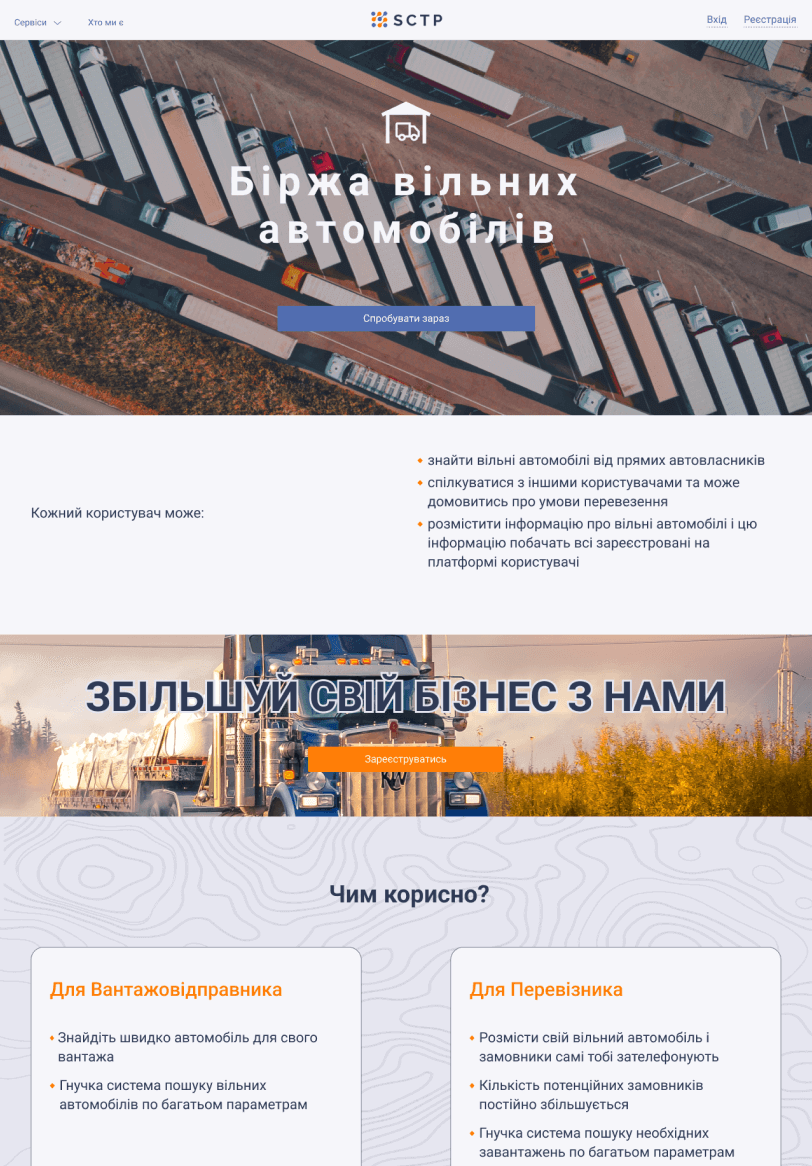
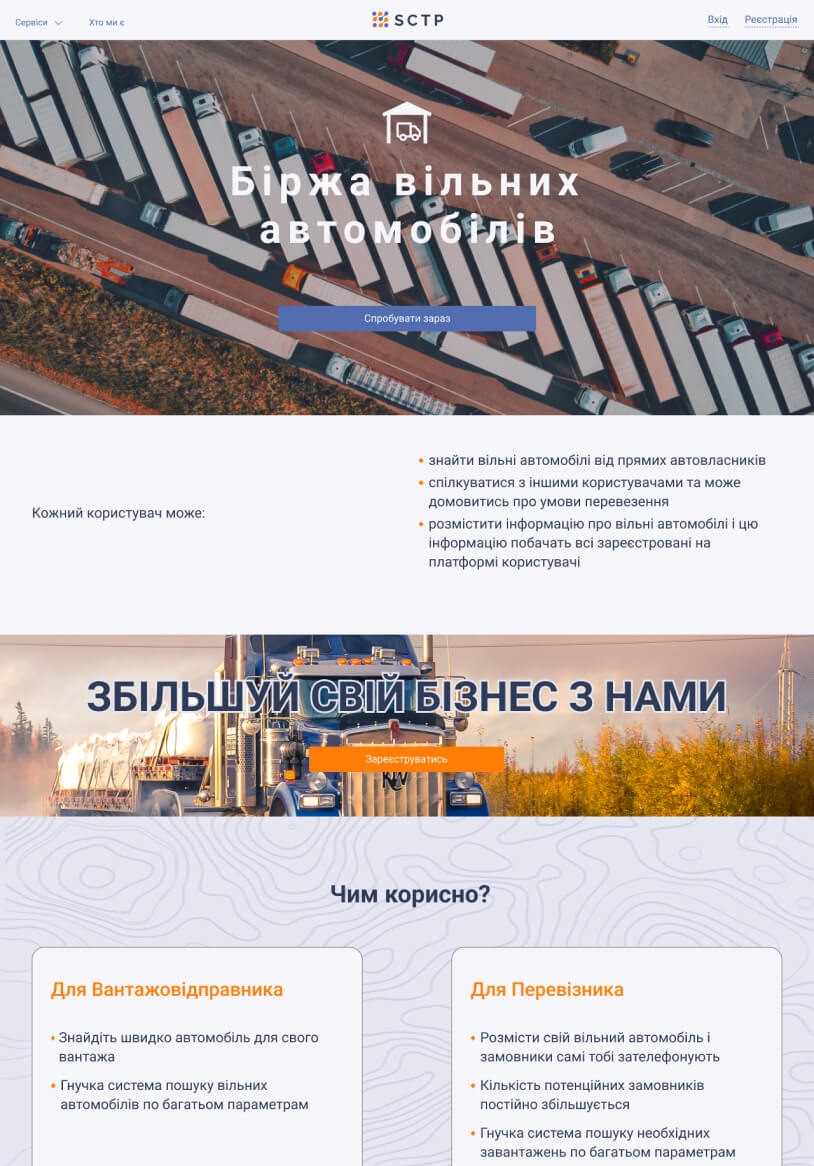
fix: imgs

diff --git a/css/_base.scss b/css/_base.scss
@@ -92,7 +92,7 @@ body {
 			filter: opacity(1);
 			z-index: 2;
 			img {
-				transform: scale(1.14);
+				transform: scale(1.16954);
 				filter: drop-shadow(0px 0px 11px rgba(0, 0, 0, 0.12));
 				@media (max-width: 700px){
 					transform: scale(1.38);
